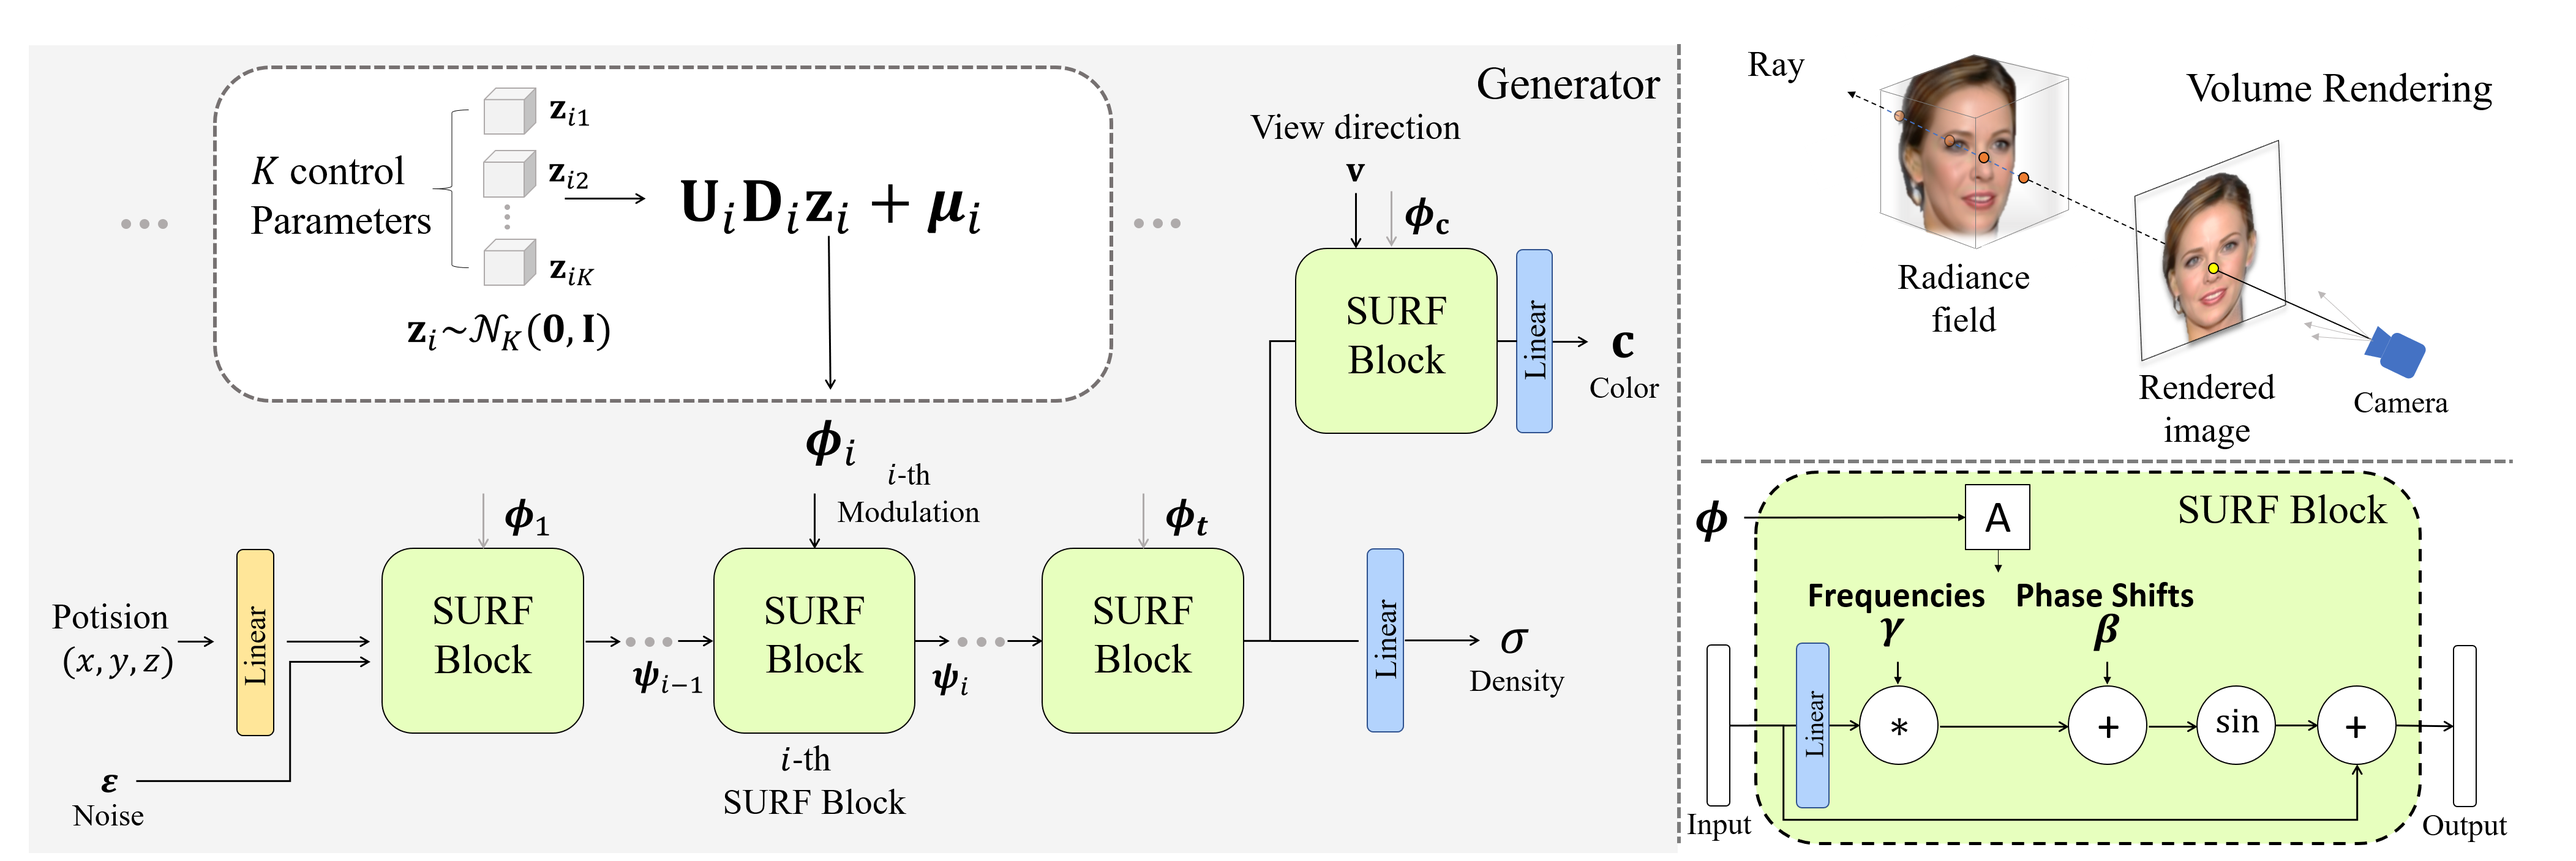
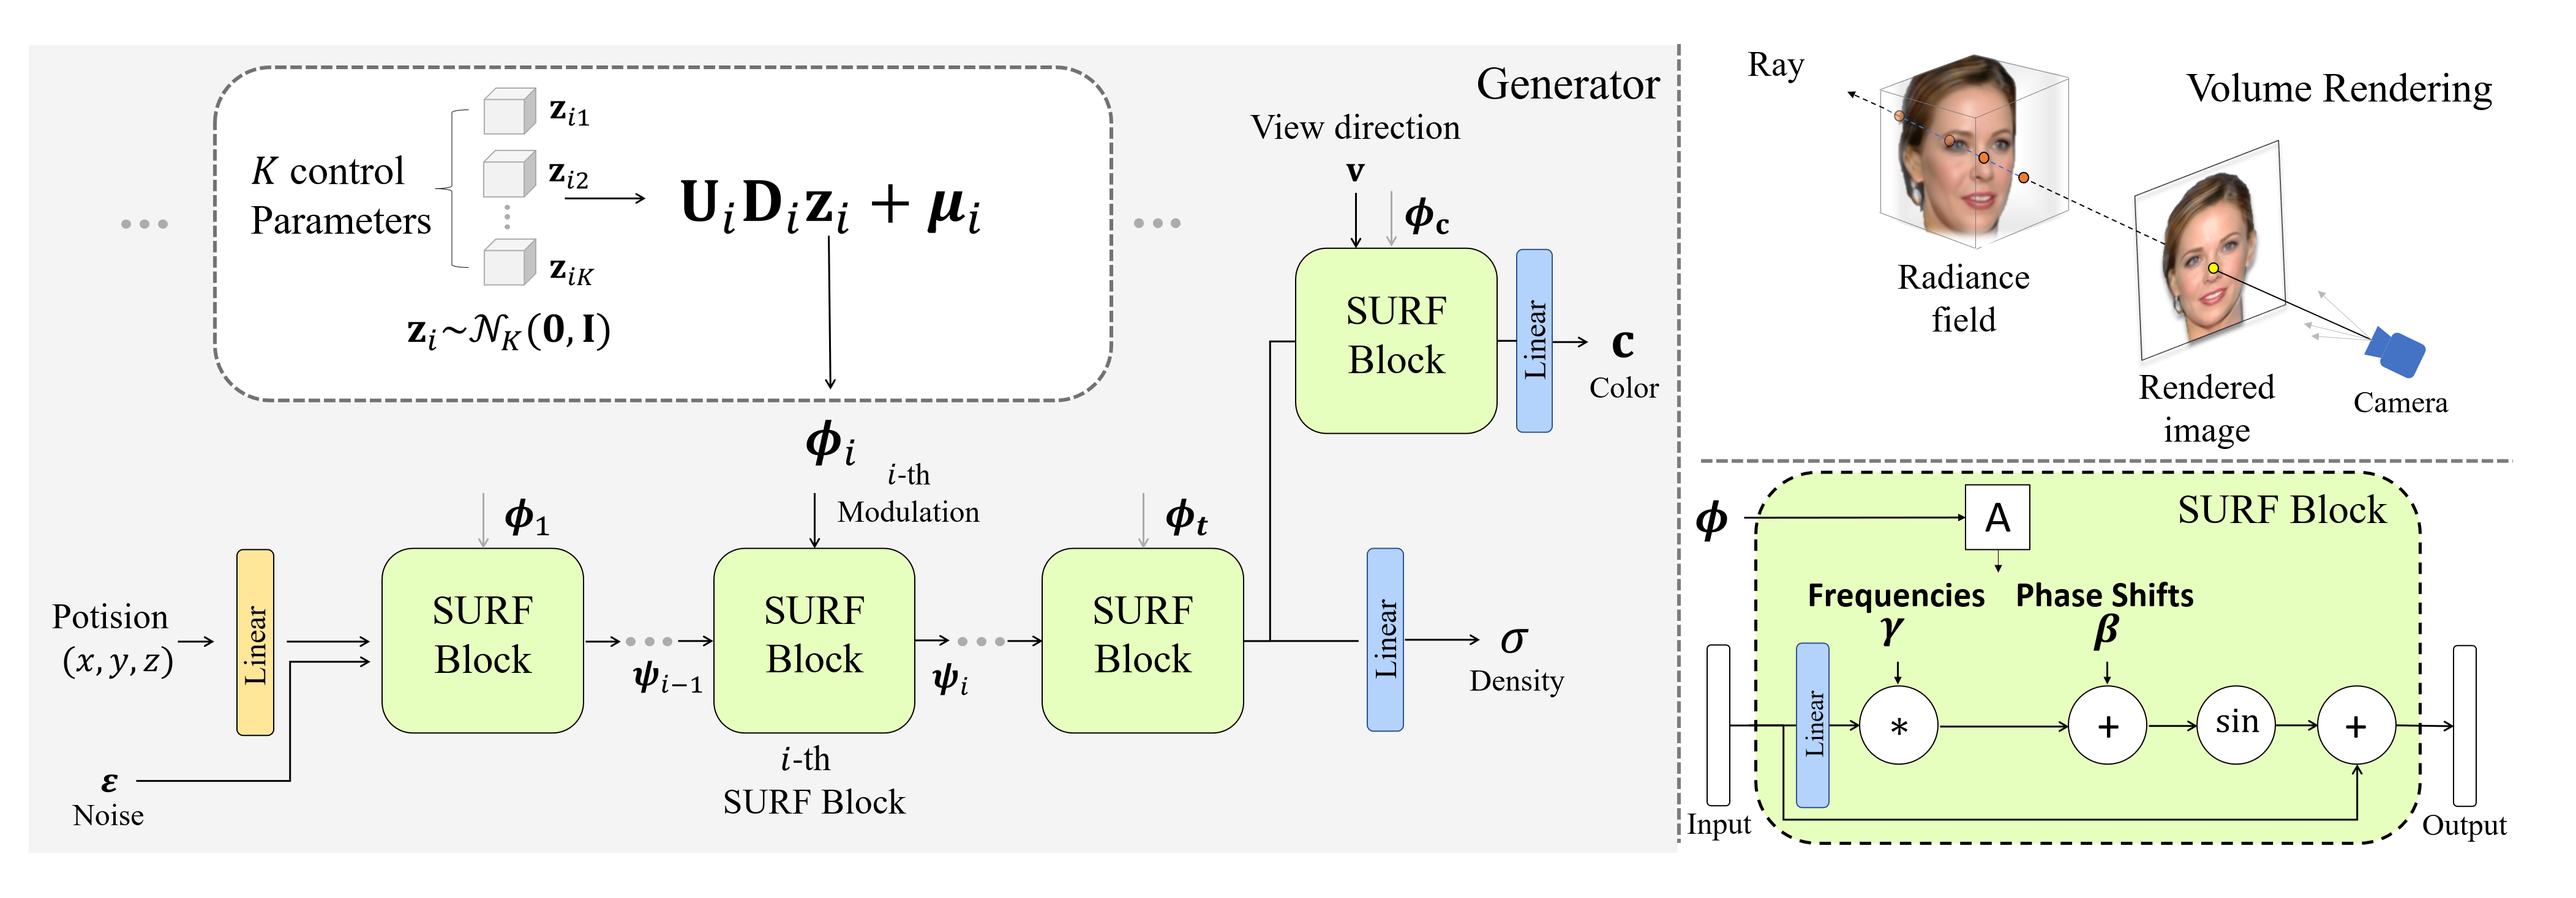
update

diff --git a/surfgan/index.html b/surfgan/index.html
@@ -177,7 +177,7 @@ attributes and then <b>make StyleGAN 3D controllable</b> by injecting the prior 
     </p>
 
   <h4 class="title"> Architecture</h4>
-    <img src="assets/surfgan2.png"  height="250" class="center"/>
+    <img src="assets/surfgan.png"  height="250" class="center"/>
     <p></p>
     <p><h4 class="content">3D-aware generation</h4></p>
     <img src="assets/surf_result1.png"  width="1000" class="center"/>
